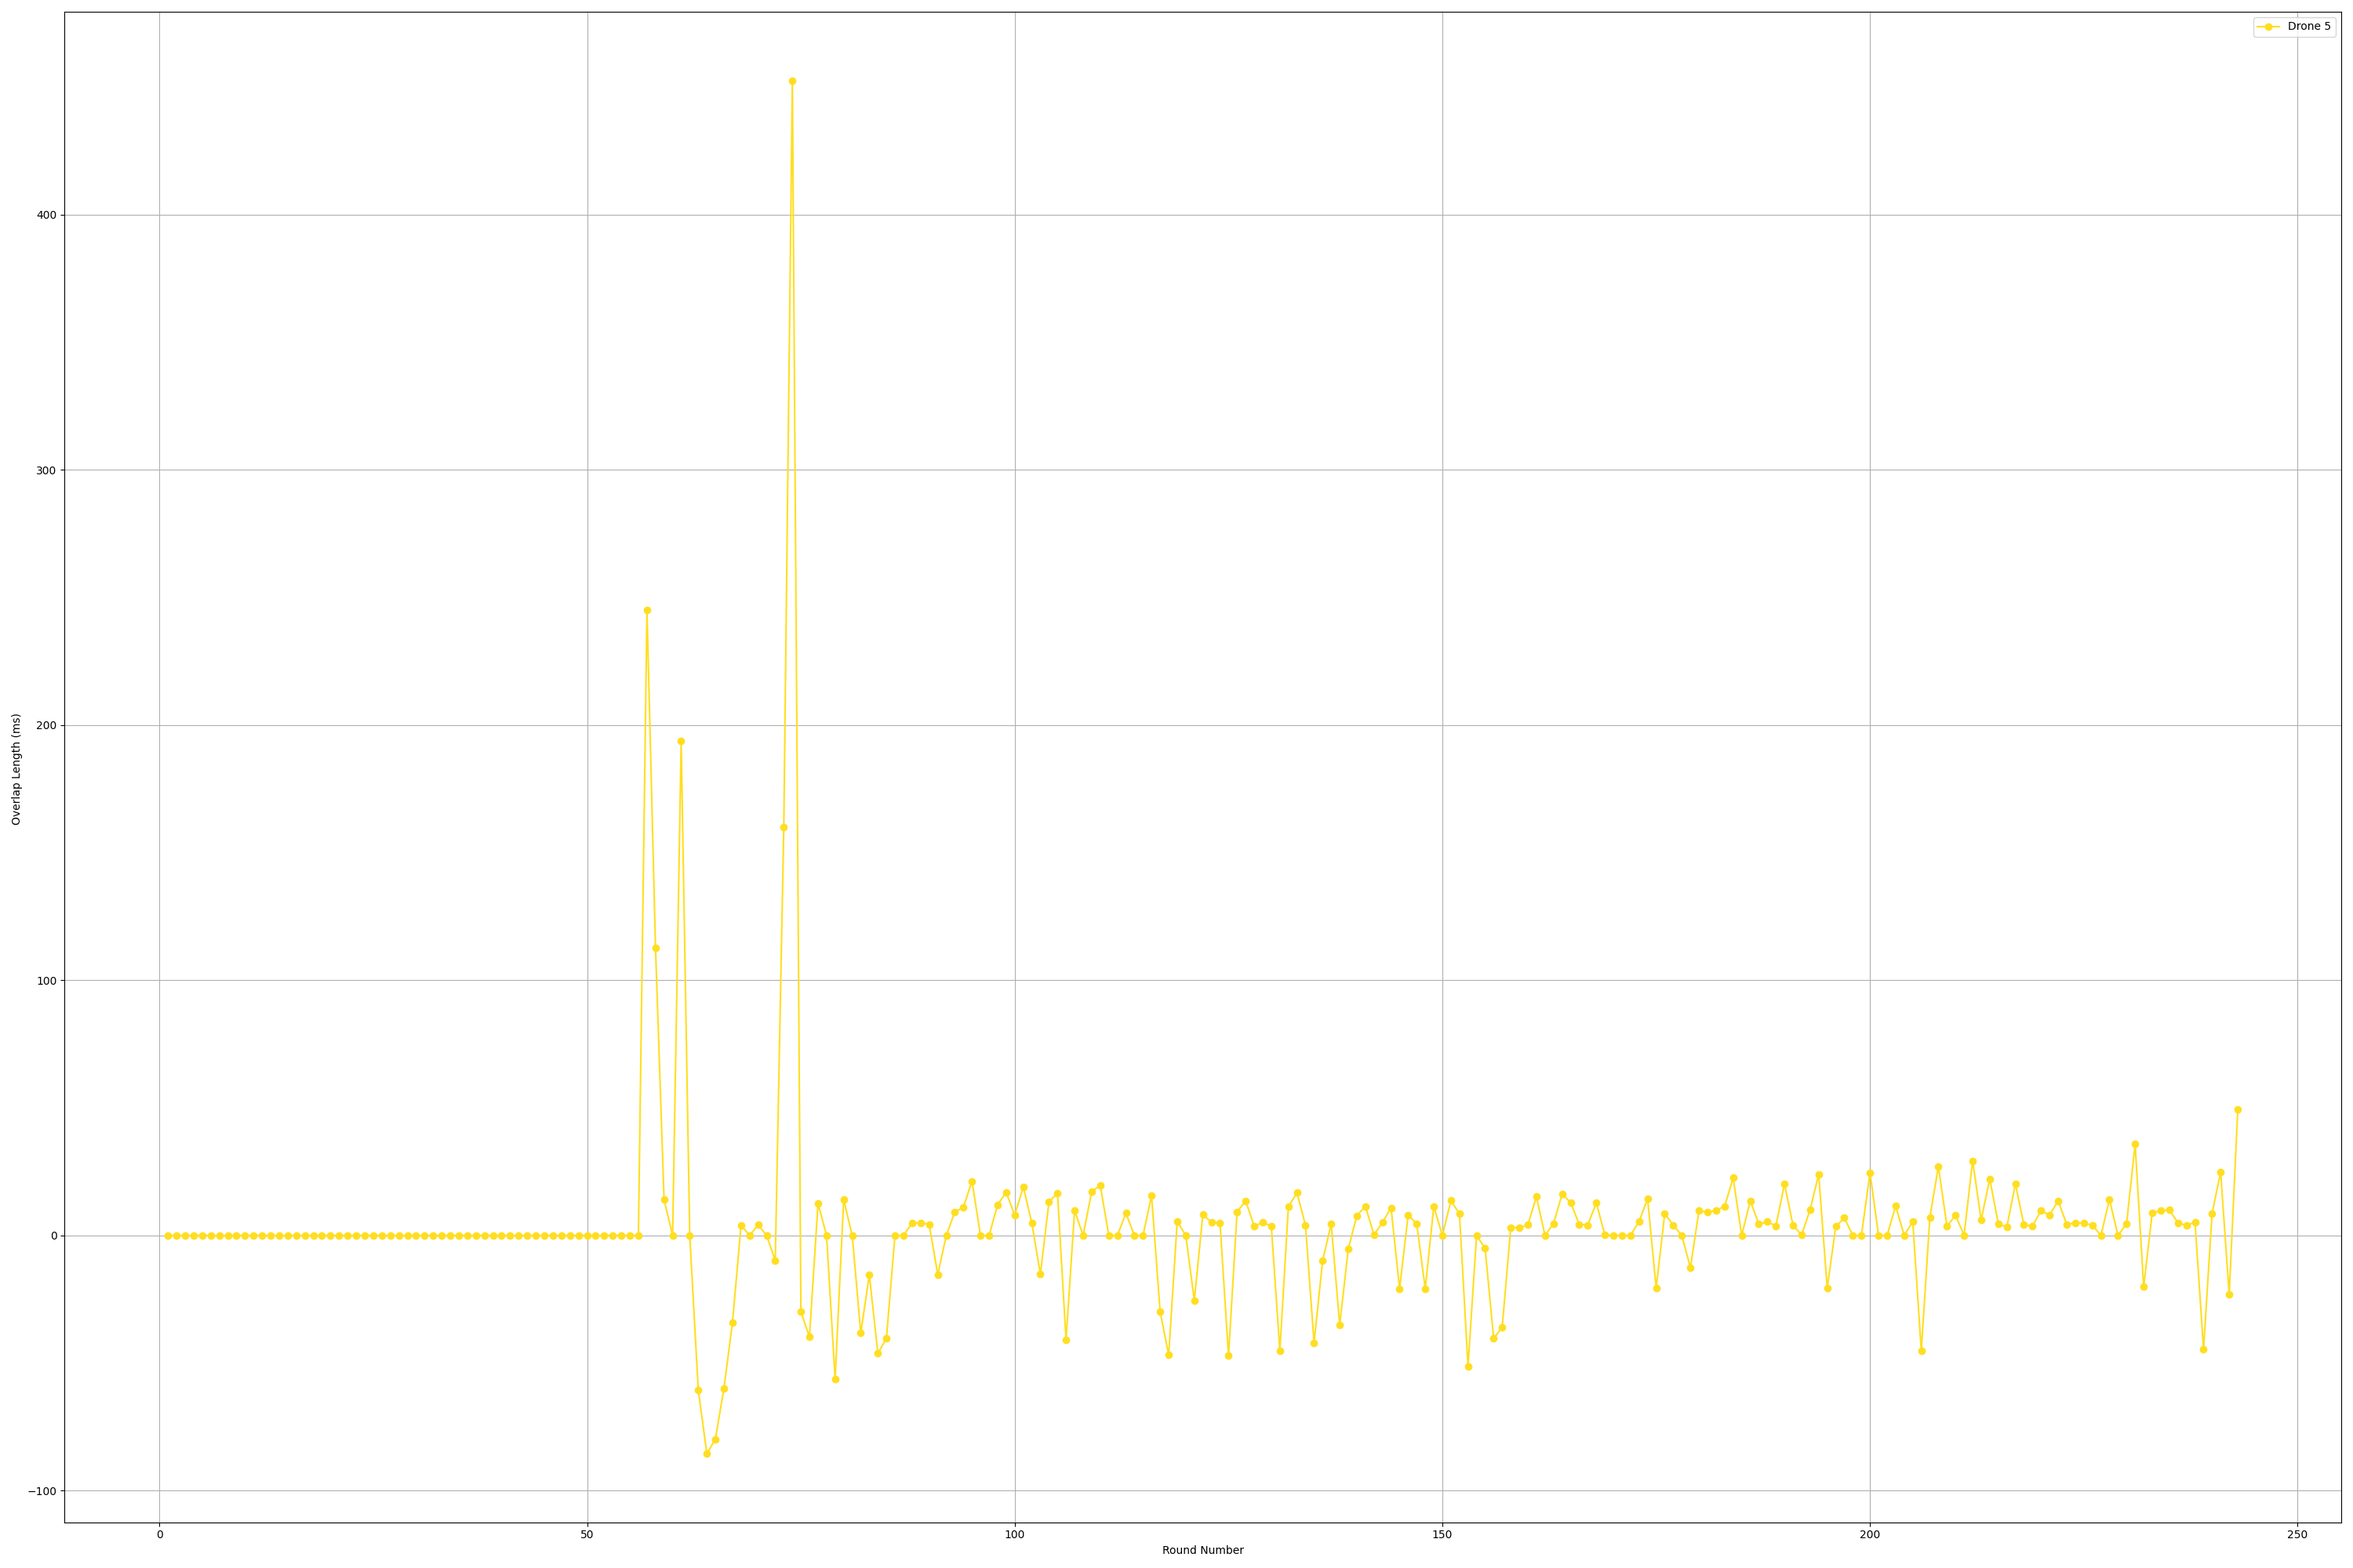
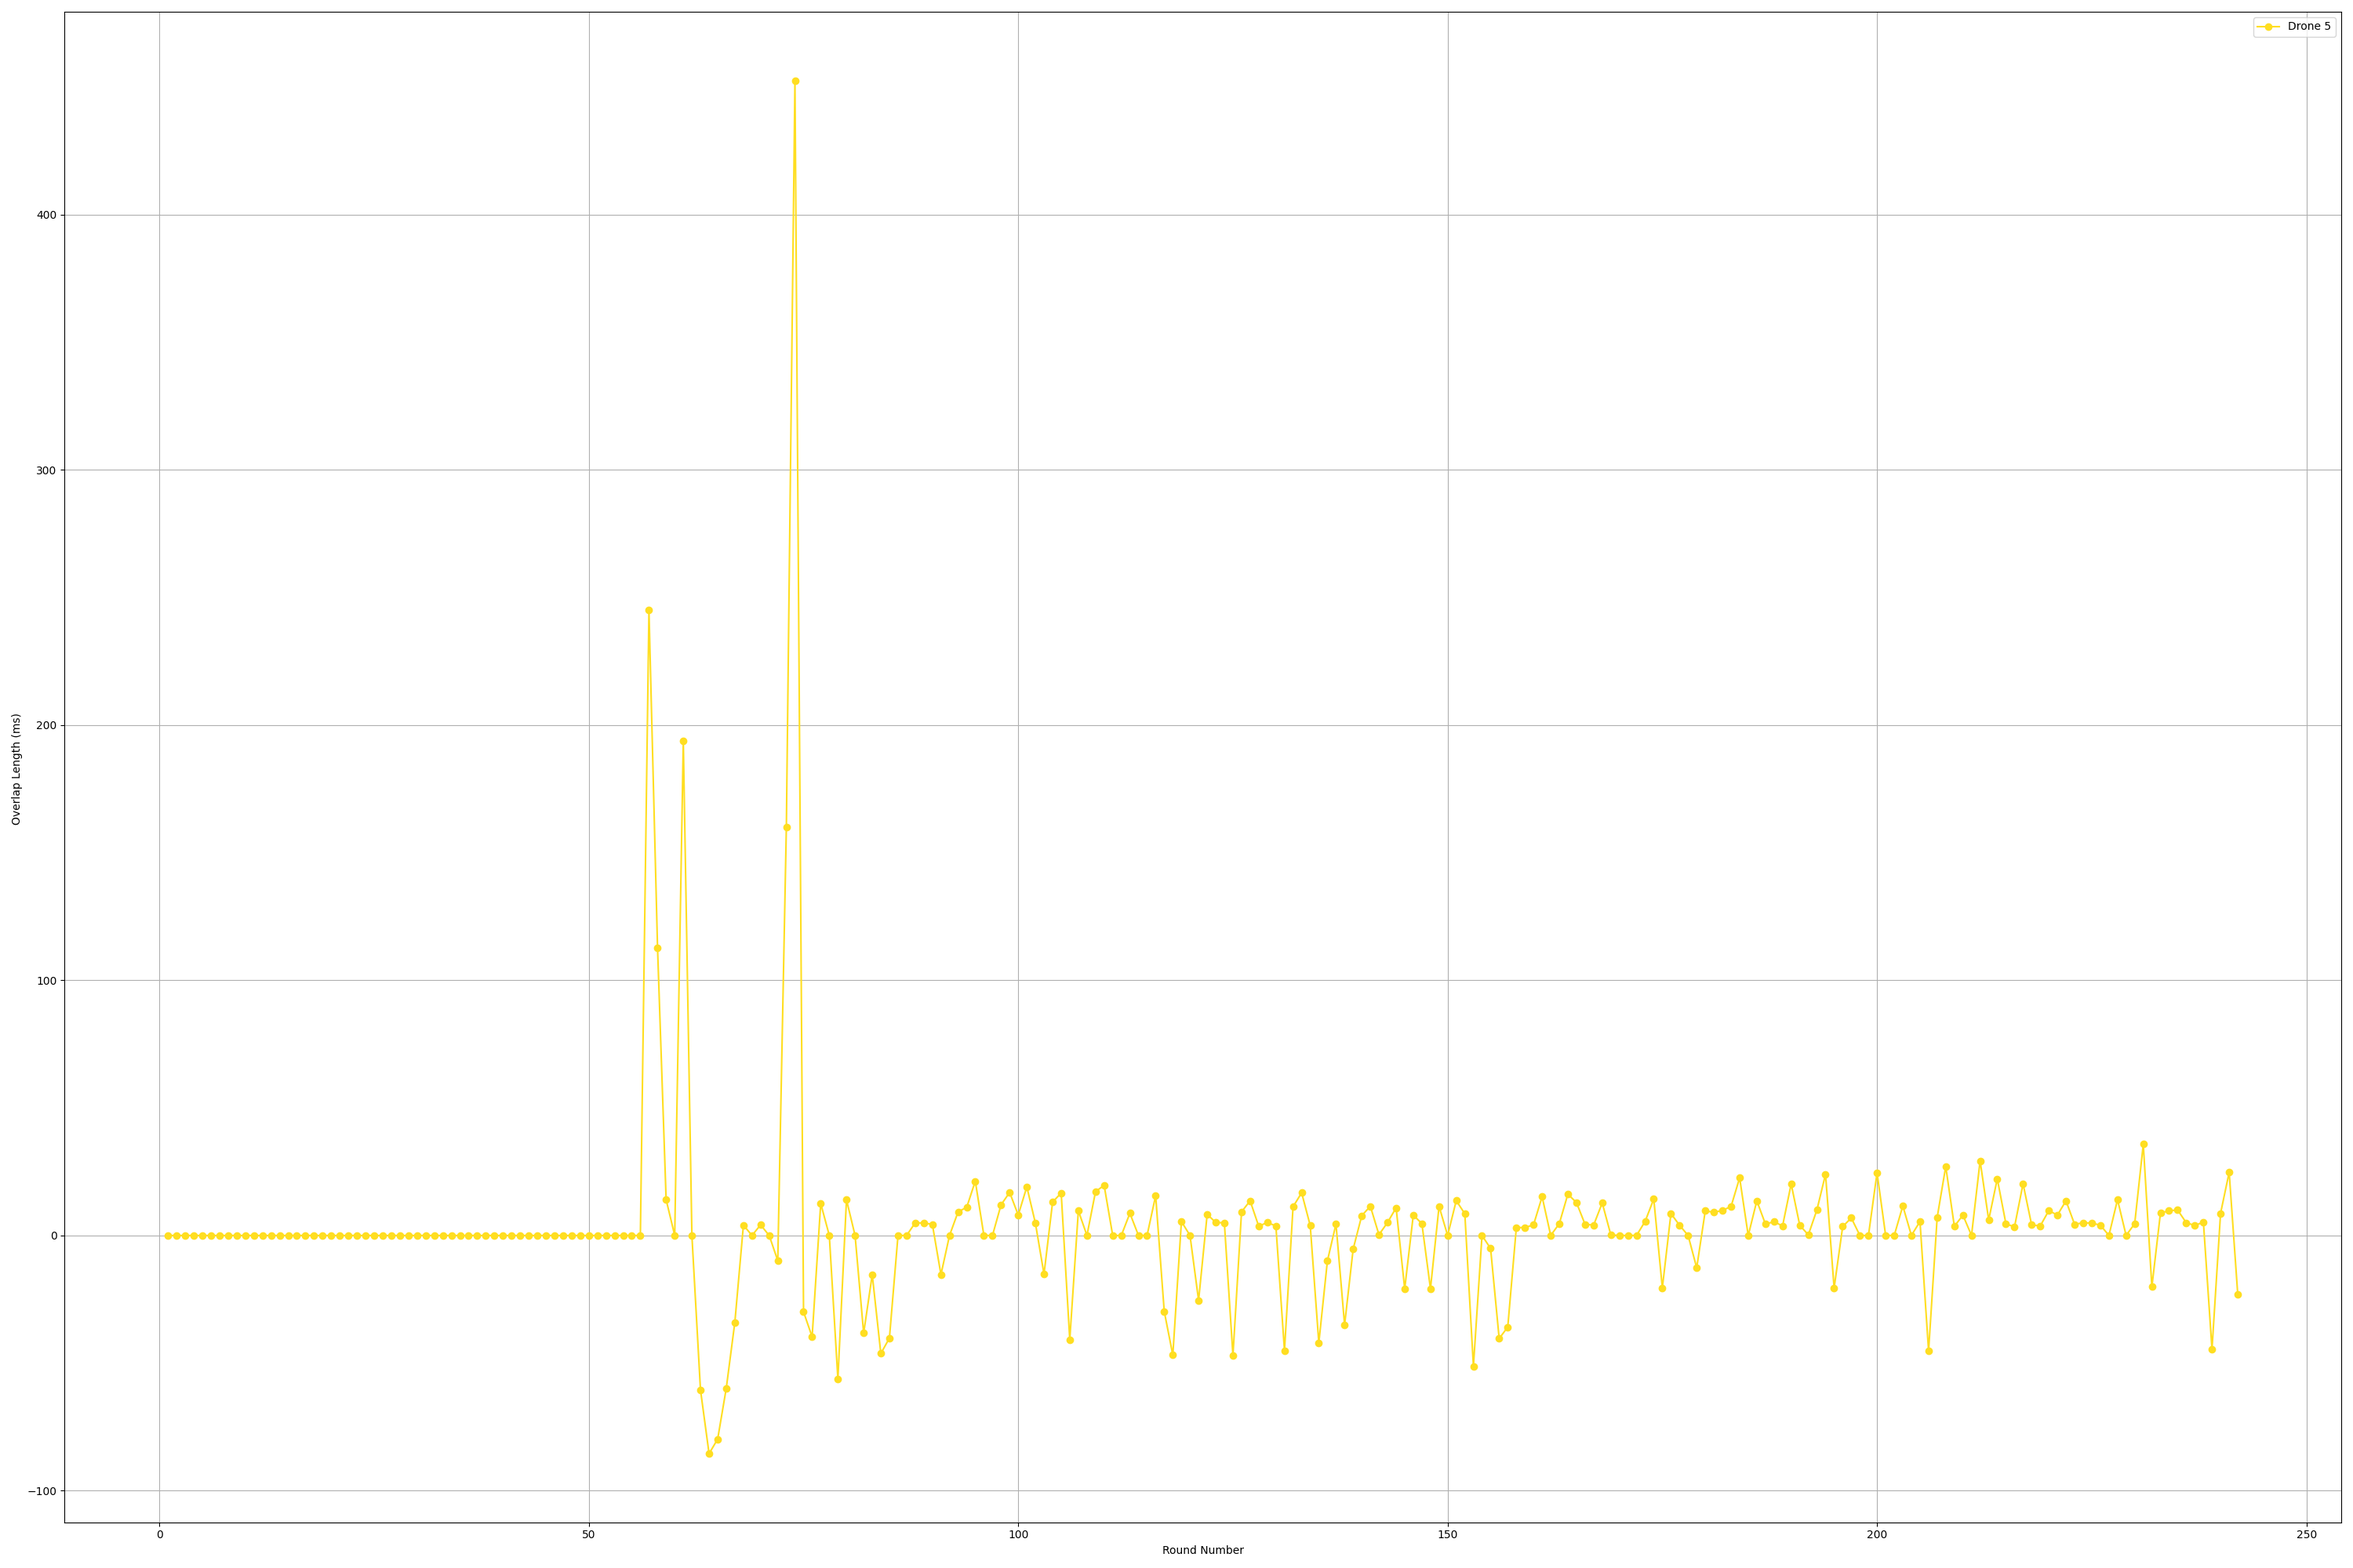
New charts

Changed region(s): [[0.248, 0.186, 0.961, 0.868], [0.279, 0.868, 0.31, 0.93]]

diff --git a/docs/logs/processTrace.py b/docs/logs/processTrace.py
@@ -162,6 +162,8 @@ def compute_overlap(path):
     check_overlap_flag[DRONE_5_ID] = False
     check_overlap_flag[DRONE_6_ID] = False
 
+    round_throughput = dict()
+
     round_counter = 0
 
     packet_counter = 0
@@ -170,7 +172,7 @@ def compute_overlap(path):
 
     for packet in PcapReader(path):
 
-        #if(packet_counter > 5000):
+        #if(packet_counter > 2000):
         #    break
 
         dot11 = packet['Dot11']
@@ -203,7 +205,13 @@ def compute_overlap(path):
                 packet_round = int.from_bytes(annotations, byteorder='little')
 
                 if wlan_source_address == node_wlan_sa[DRONE_1_ID]:
-                    
+
+                    #Save packet size
+                    if(round_counter in round_throughput.keys()):
+                        round_throughput[round_counter]+=len(packet)
+                    else:
+                        round_throughput[round_counter]=len(packet)
+
                     if(DRONE_1_ID in last_rounds.keys() and DRONE_1_ID in last_packet_timestamps.keys()):
                     
                         last_round = last_rounds[DRONE_1_ID]
@@ -246,6 +254,12 @@ def compute_overlap(path):
 
                 if wlan_source_address == node_wlan_sa[DRONE_2_ID]:
 
+                    #Save packet size
+                    if(round_counter in round_throughput.keys()):
+                        round_throughput[round_counter]+=len(packet)
+                    else:
+                        round_throughput[round_counter]=len(packet)
+
                     if(DRONE_2_ID in last_rounds.keys() and DRONE_2_ID in last_packet_timestamps.keys()):
                     
                         last_round = last_rounds[DRONE_2_ID]
@@ -281,6 +295,12 @@ def compute_overlap(path):
 
                 if wlan_source_address == node_wlan_sa[DRONE_3_ID]:
 
+                    #Save packet size
+                    if(round_counter in round_throughput.keys()):
+                        round_throughput[round_counter]+=len(packet)
+                    else:
+                        round_throughput[round_counter]=len(packet)
+
                     if(DRONE_3_ID in last_rounds.keys() and DRONE_3_ID in last_packet_timestamps.keys()):
                     
                         last_round = last_rounds[DRONE_3_ID]
@@ -314,6 +334,12 @@ def compute_overlap(path):
                         check_overlap_flag[DRONE_2_ID] = False
                 
                 if wlan_source_address == node_wlan_sa[DRONE_4_ID]:
+
+                    #Save packet size
+                    if(round_counter in round_throughput.keys()):
+                        round_throughput[round_counter]+=len(packet)
+                    else:
+                        round_throughput[round_counter]=len(packet)
 
                     if(DRONE_4_ID in last_rounds.keys() and DRONE_4_ID in last_packet_timestamps.keys()):
                     
@@ -349,6 +375,12 @@ def compute_overlap(path):
 
                 if wlan_source_address == node_wlan_sa[DRONE_5_ID]:
 
+                    #Save packet size
+                    if(round_counter in round_throughput.keys()):
+                        round_throughput[round_counter]+=len(packet)
+                    else:
+                        round_throughput[round_counter]=len(packet)
+
                     if(DRONE_5_ID in last_rounds.keys() and DRONE_5_ID in last_packet_timestamps.keys()):
                     
                         last_round = last_rounds[DRONE_5_ID]
@@ -382,6 +414,12 @@ def compute_overlap(path):
                         check_overlap_flag[DRONE_4_ID] = False
 
                 if wlan_source_address == node_wlan_sa[DRONE_6_ID]:
+
+                    #Save packet size
+                    if(round_counter in round_throughput.keys()):
+                        round_throughput[round_counter]+=len(packet)
+                    else:
+                        round_throughput[round_counter]=len(packet)
 
                     if(DRONE_6_ID in last_rounds.keys() and DRONE_6_ID in last_packet_timestamps.keys()):
                     
@@ -522,10 +560,31 @@ def compute_overlap(path):
 
     print('Done!')
 
-    plt.figure(figsize=(30,20))
+    y_throughput = list()
+    x_throughput = list() 
+
+    for key in round_throughput.keys():
+        value = round_throughput[key]
+        y_throughput.append(value)
+        x_throughput.append(key)
+
+    plt.figure(figsize=(20,15))
 
     plt.clf()
-    plt.plot(saved_overlap.keys(), y_data[DRONE_1_ID], marker='o', linestyle='-', color=node_colors[DRONE_1_ID], label = "Drone 1")
+    plt.plot(x_throughput[:-1], y_throughput[:-1], marker='o', linestyle='-', color="black", label = "Network Throughput")
+    plt.legend()
+    plt.grid()
+    plt.xlabel("Round Number")
+    plt.ylabel("Network Throughput (Bytes)")
+    plt.tight_layout()
+    plt.savefig('./' + TEST_NAME +'/' + TEST_TYPE + '/' + 'network-throughput.png')
+
+    plt.figure(figsize=(30,20))
+
+    overlap_x = list(saved_overlap.keys())[:-1]
+
+    plt.clf()
+    plt.plot(overlap_x, y_data[DRONE_1_ID][:-1], marker='o', linestyle='-', color=node_colors[DRONE_1_ID], label = "Drone 1")
     plt.legend()
     plt.grid()
     plt.xlabel("Round Number")
@@ -534,7 +593,7 @@ def compute_overlap(path):
     plt.savefig('./' + TEST_NAME +'/' + TEST_TYPE + '/' + 'slot-overlap-1.png')
 
     plt.clf()
-    plt.plot(saved_overlap.keys(), y_data[DRONE_2_ID], marker='o', linestyle='-', color=node_colors[DRONE_2_ID], label = "Drone 2")
+    plt.plot(overlap_x, y_data[DRONE_2_ID][:-1], marker='o', linestyle='-', color=node_colors[DRONE_2_ID], label = "Drone 2")
     plt.legend()
     plt.grid()
     plt.xlabel("Round Number")
@@ -543,7 +602,7 @@ def compute_overlap(path):
     plt.savefig('./' + TEST_NAME +'/' + TEST_TYPE + '/' + 'slot-overlap-2.png')
 
     plt.clf()
-    plt.plot(saved_overlap.keys(), y_data[DRONE_3_ID], marker='o', linestyle='-', color=node_colors[DRONE_3_ID], label = "Drone 3")
+    plt.plot(overlap_x, y_data[DRONE_3_ID][:-1], marker='o', linestyle='-', color=node_colors[DRONE_3_ID], label = "Drone 3")
     plt.legend()
     plt.grid()
     plt.xlabel("Round Number")
@@ -552,7 +611,7 @@ def compute_overlap(path):
     plt.savefig('./' + TEST_NAME +'/' + TEST_TYPE + '/' + 'slot-overlap-3.png')
 
     plt.clf()
-    plt.plot(saved_overlap.keys(), y_data[DRONE_4_ID], marker='o', linestyle='-', color=node_colors[DRONE_4_ID], label = "Drone 4")
+    plt.plot(overlap_x, y_data[DRONE_4_ID][:-1], marker='o', linestyle='-', color=node_colors[DRONE_4_ID], label = "Drone 4")
     plt.legend()
     plt.grid()
     plt.xlabel("Round Number")
@@ -561,7 +620,7 @@ def compute_overlap(path):
     plt.savefig('./' + TEST_NAME +'/' + TEST_TYPE + '/' + 'slot-overlap-4.png')
 
     plt.clf()
-    plt.plot(saved_overlap.keys(), y_data[DRONE_5_ID], marker='o', linestyle='-', color=node_colors[DRONE_5_ID], label = "Drone 5")
+    plt.plot(overlap_x, y_data[DRONE_5_ID][:-1], marker='o', linestyle='-', color=node_colors[DRONE_5_ID], label = "Drone 5")
     plt.legend()
     plt.grid()
     plt.xlabel("Round Number")
@@ -570,7 +629,7 @@ def compute_overlap(path):
     plt.savefig('./' + TEST_NAME +'/' + TEST_TYPE + '/' + 'slot-overlap-5.png')
 
     plt.clf()
-    plt.plot(saved_overlap.keys(), y_data[DRONE_6_ID], marker='o', linestyle='-', color=node_colors[DRONE_6_ID], label = "Drone 6")
+    plt.plot(overlap_x, y_data[DRONE_6_ID][:-1], marker='o', linestyle='-', color=node_colors[DRONE_6_ID], label = "Drone 6")
     plt.legend()
     plt.grid()
     plt.xlabel("Round Number")
@@ -579,12 +638,12 @@ def compute_overlap(path):
     plt.savefig('./' + TEST_NAME +'/' + TEST_TYPE + '/' + 'slot-overlap-6.png')
 
     plt.clf()
-    plt.plot(saved_overlap.keys(), y_data[DRONE_1_ID], marker='o', linestyle='-', color=node_colors[DRONE_1_ID], label = "Drone 1")
-    plt.plot(saved_overlap.keys(), y_data[DRONE_2_ID], marker='o', linestyle='-', color=node_colors[DRONE_2_ID], label = "Drone 2")
-    plt.plot(saved_overlap.keys(), y_data[DRONE_3_ID], marker='o', linestyle='-', color=node_colors[DRONE_3_ID], label = "Drone 3")
-    plt.plot(saved_overlap.keys(), y_data[DRONE_4_ID], marker='o', linestyle='-', color=node_colors[DRONE_4_ID], label = "Drone 4")
-    plt.plot(saved_overlap.keys(), y_data[DRONE_5_ID], marker='o', linestyle='-', color=node_colors[DRONE_5_ID], label = "Drone 5")
-    plt.plot(saved_overlap.keys(), y_data[DRONE_6_ID], marker='o', linestyle='-', color=node_colors[DRONE_6_ID], label = "Drone 6")
+    plt.plot(overlap_x, y_data[DRONE_1_ID][:-1], marker='o', linestyle='-', color=node_colors[DRONE_1_ID], label = "Drone 1")
+    plt.plot(overlap_x, y_data[DRONE_2_ID][:-1], marker='o', linestyle='-', color=node_colors[DRONE_2_ID], label = "Drone 2")
+    plt.plot(overlap_x, y_data[DRONE_3_ID][:-1], marker='o', linestyle='-', color=node_colors[DRONE_3_ID], label = "Drone 3")
+    plt.plot(overlap_x, y_data[DRONE_4_ID][:-1], marker='o', linestyle='-', color=node_colors[DRONE_4_ID], label = "Drone 4")
+    plt.plot(overlap_x, y_data[DRONE_5_ID][:-1], marker='o', linestyle='-', color=node_colors[DRONE_5_ID], label = "Drone 5")
+    plt.plot(overlap_x, y_data[DRONE_6_ID][:-1], marker='o', linestyle='-', color=node_colors[DRONE_6_ID], label = "Drone 6")
     plt.legend()
     plt.grid()
     plt.xlabel("Round Number")
